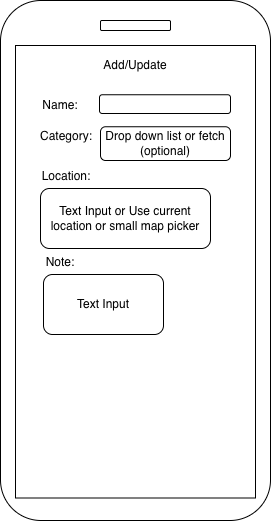
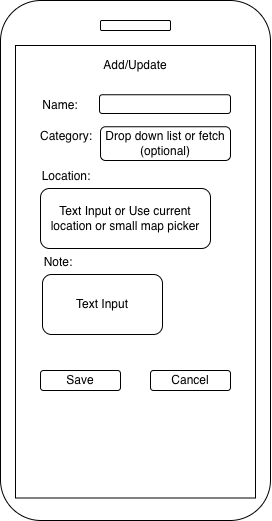
update image + first two features

diff --git a/proposal/proposal.md b/proposal/proposal.md
@@ -22,12 +22,14 @@ The application will utilize **React Native** with **Expo** as its development f
 **Core Features:**
 
 1. **User Authentication:**
-   - **Feature:** 
-   - **Technical Approach:**
+   - **Feature:** Secure user login and account management.
+   - **Technical Approach:** Use Supabase Auth and support email/password login initially, with optional OAuth providers (e.g., Google) if time allows.
 
 2. **Add and view points of interest**
-   - **Feature:**
-   - **Technical Approach:** 
+   - **Feature:** Users can add and view points of interest with name, location, description, etc.
+   - **Technical Approach:** Use core components like View, Text, Button, TextInput, etc. to manage POI creation/update. *(Please refer to the attached images for add/update screen design draft.)*
+   - **Design draft**:
+     - ![add/update screen](https://github.com/nichi1114/local-guide/blob/main/proposal/add_update_screen.png?raw=true)
 
 3. **Screen Navigation:**
    - **Feature:** 
@@ -51,13 +53,17 @@ The application will utilize **React Native** with **Expo** as its development f
    - **Feature:**
    - **Technical Approach:**
 
-8. **Use Expo Location to show nearby places:**
+8. **Expo Location to show nearby places**
+   - **Feature:**
+   - **Technical Approach:**
+
+9. **Use Expo Camera to capture photos of places (Optional):**
    - **Feature:**
    - **Technical Approach:**
 
 **Optional features??**
 
-This project meets the core requirements and advanced requirements for **User Authentication** and **Mobile Sensors or Device APIs**. It can be completed within a timeline of 4 to 5 weeks and will focus on essential functionalities such as navigation, view points of interest management, state management and persistence, and backend integration. Additional features, such as xxx, xxx, may be included as optional enhancements depending on the available time. What's more, UI design can be simplified if necessary to ensure the project is completed on time.
+This project meets the core requirements and advanced requirements for **User Authentication** and **Mobile Sensors or Device APIs**. It can be completed within a timeline of 4 to 5 weeks and will focus on essential functionalities such as navigation, view points of interest management, state management and persistence, and backend integration. Additional features, such as Expo Location to show nearby places, xxx, may be included as optional enhancements depending on the available time. What's more, UI design can be simplified if necessary to ensure the project is completed on time.
 
 ## Tentative Plan
 The timeline below is generally planned, but it is highly possible to get adjusted.
@@ -65,7 +71,7 @@ The timeline below is generally planned, but it is highly possible to get adjust
 **Week 1: Setup & User Authentication**
 
 
-**Week 2: View Points of Interest Management**
+**Week 2: Points of Interest Management**
 
 
 **Week 3:**
